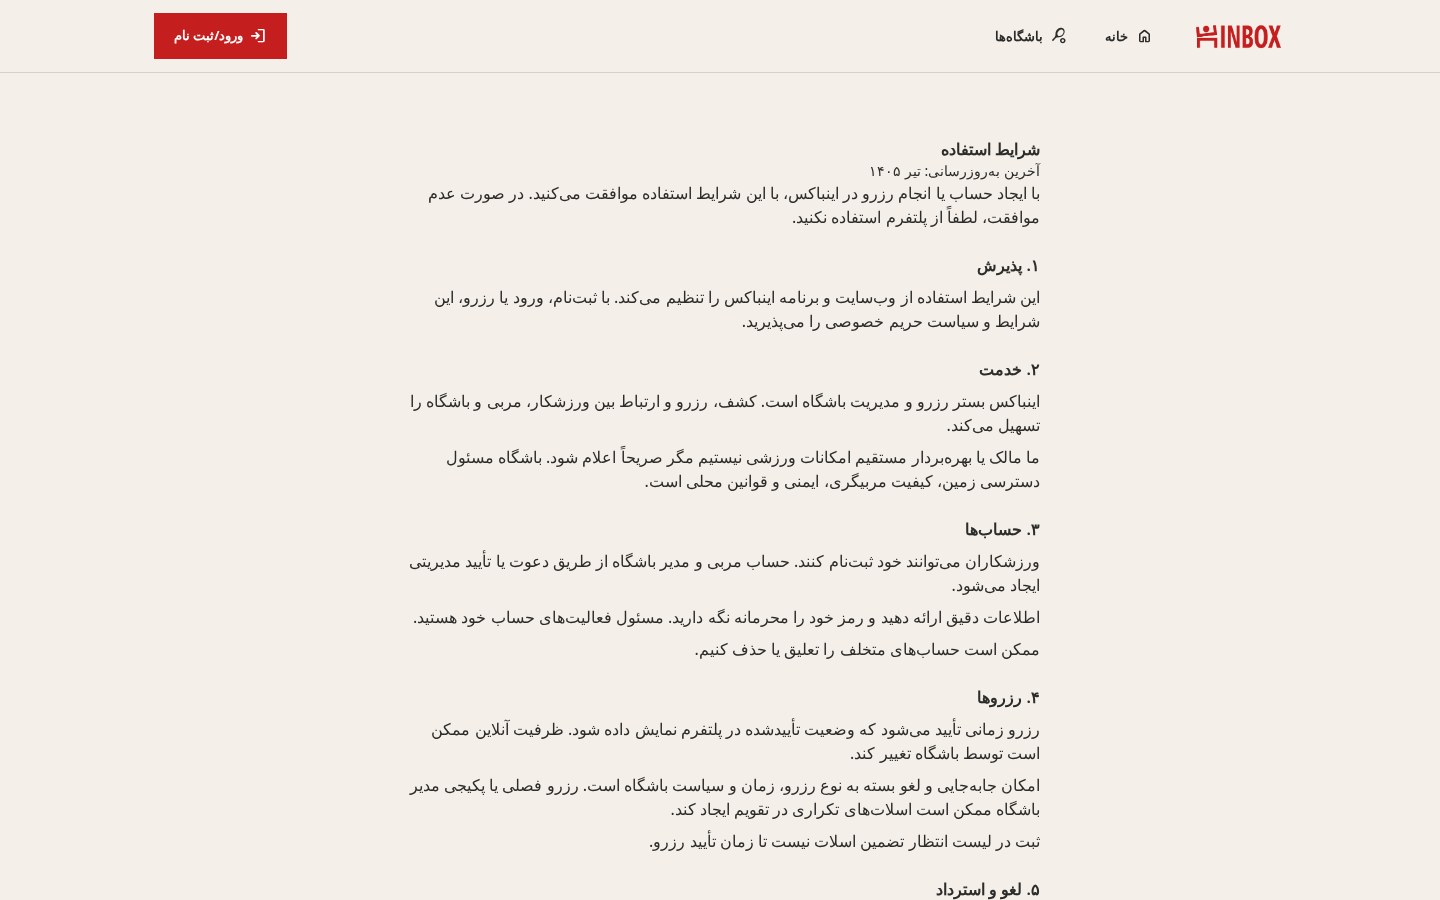
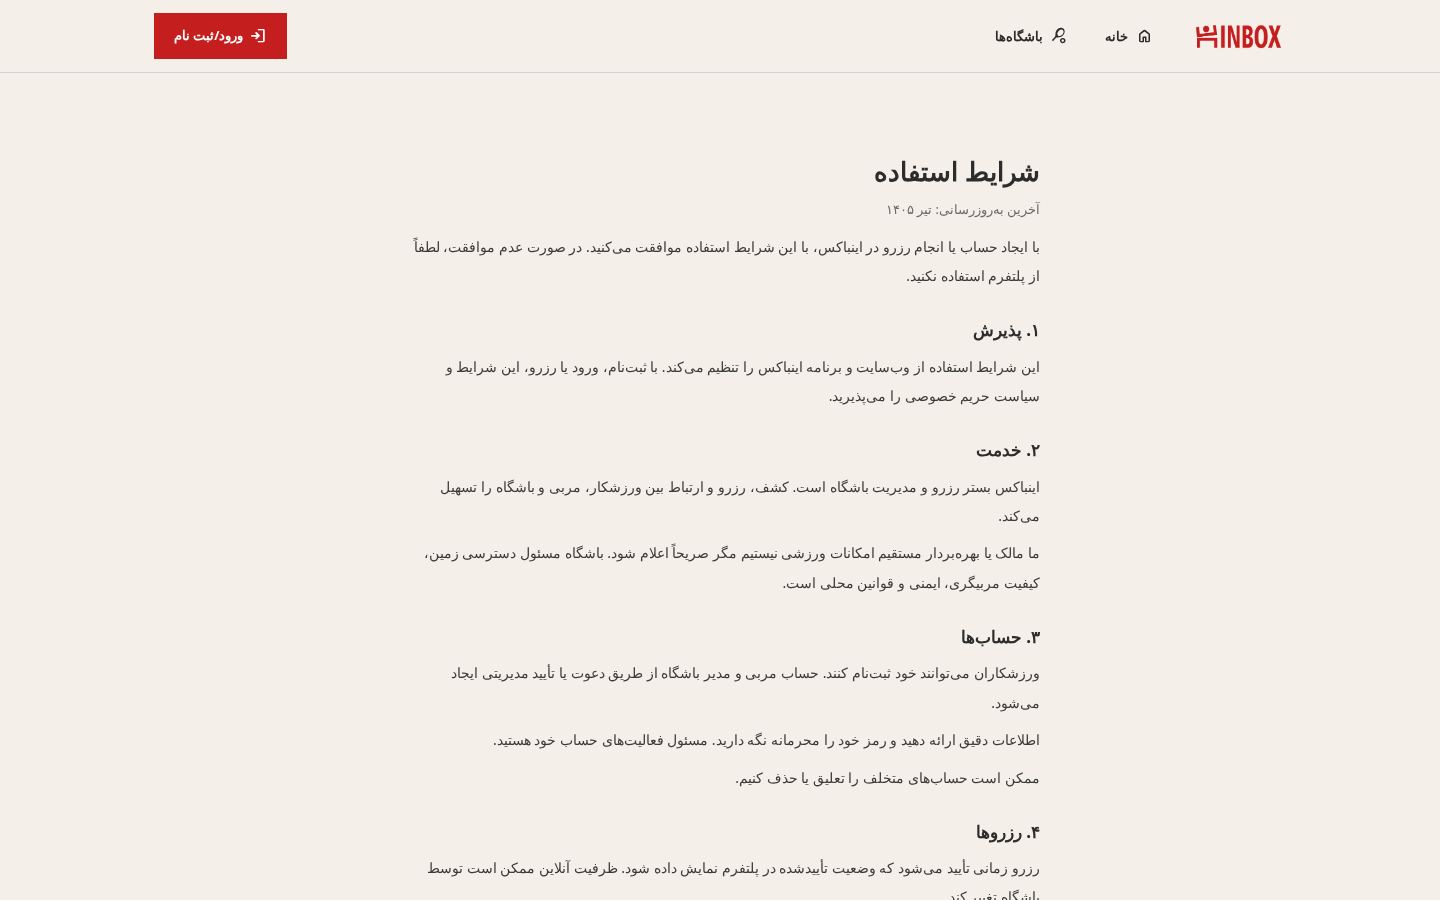
fidelity: legal pages, contact, 404/offline → SoT .legal/.card.kv/.authbox

diff --git a/app/pages/contact.vue b/app/pages/contact.vue
@@ -110,15 +110,15 @@ useHead({
 <template>
   <div class="tail-page-stack">
     <CanvaPublicChrome />
-  <div class="mx-auto max-w-2xl px-4 py-4 min-[431px]:py-6">
-    <h1 class="text-start text-2xl font-bold text-brand-navy">{{ t('contact.title') }}</h1>
-    <p class="mt-1 text-start text-sm text-brand-gray-500">{{ t('legal.lastUpdated') }}</p>
+  <div class="canva-legal canva-contact">
+    <h1>{{ t('contact.title') }}</h1>
+    <p class="canva-legal-meta">{{ t('legal.lastUpdated') }}</p>
     <p class="mt-3 text-start text-sm text-brand-gray-700">{{ t('contact.intro') }}</p>
 
-    <dl class="mt-6 space-y-3 text-sm">
+    <dl class="canva-contact-card canva-contact-kv">
       <div
         v-if="ownerName"
-        class="space-y-1 border border-brand-gray-200 bg-white p-4"
+        class="canva-contact-row"
         style="border-radius: 2px;"
       >
         <dt class="font-bold text-brand-navy">{{ t('contact.ownerLabel') }}</dt>
@@ -128,7 +128,7 @@ useHead({
       <!-- Address: env only — never invent Tehran; hide when unset (no setup copy to users) -->
       <div
         v-if="address"
-        class="space-y-1 border border-brand-gray-200 bg-white p-4"
+        class="canva-contact-row"
         style="border-radius: 2px;"
       >
         <dt class="font-bold text-brand-navy">{{ t('contact.addressLabel') }}</dt>
@@ -140,7 +140,7 @@ useHead({
 
       <div
         v-if="landline"
-        class="space-y-1 border border-brand-gray-200 bg-white p-4"
+        class="canva-contact-row"
         style="border-radius: 2px;"
       >
         <dt class="font-bold text-brand-navy">{{ t('contact.landlineLabel') }}</dt>
@@ -151,7 +151,7 @@ useHead({
 
       <div
         v-if="mobile"
-        class="space-y-1 border border-brand-gray-200 bg-white p-4"
+        class="canva-contact-row"
         style="border-radius: 2px;"
       >
         <dt class="font-bold text-brand-navy">{{ t('contact.mobileLabel') }}</dt>
@@ -161,7 +161,7 @@ useHead({
       </div>
 
       <div
-        class="space-y-1 border border-brand-gray-200 bg-white p-4"
+        class="canva-contact-row"
         style="border-radius: 2px;"
       >
         <dt class="font-bold text-brand-navy">{{ t('contact.emailLabel') }}</dt>
@@ -178,7 +178,7 @@ useHead({
       </div>
 
       <div
-        class="space-y-1 border border-brand-gray-200 bg-white p-4"
+        class="canva-contact-row"
         style="border-radius: 2px;"
       >
         <dt class="font-bold text-brand-navy">{{ t('contact.hoursLabel') }}</dt>
@@ -187,10 +187,7 @@ useHead({
     </dl>
 
     <!-- Marketing message — only message field uses SmoothCaret -->
-    <section
-      class="mt-6 space-y-3 border border-brand-gray-200 bg-white p-4"
-      style="border-radius: 2px;"
-    >
+    <section class="canva-contact-card space-y-3">
       <h2 class="text-start text-base font-bold text-brand-navy">{{ t('contact.messageTitle') }}</h2>
       <p class="text-start text-sm text-brand-gray-600">{{ t('contact.messageIntro') }}</p>
       <form class="space-y-3" @submit.prevent="submitMessage">
@@ -251,10 +248,7 @@ useHead({
     </section>
 
     <!-- Trust: only user-facing facts — never raw config/env values or setup notes. -->
-    <section
-      class="mt-6 space-y-3 border border-brand-gray-200 bg-white p-4"
-      style="border-radius: 2px;"
-    >
+    <section class="canva-contact-card space-y-3">
       <h2 class="text-start text-base font-bold text-brand-navy">{{ t('contact.readinessTitle') }}</h2>
 
       <div v-if="enamadReady" class="space-y-1 text-sm">

diff --git a/app/assets/css/main.css b/app/assets/css/main.css
@@ -4125,3 +4125,31 @@
       color: #fff;
     }
   }
+
+/* ─── SoT .legal (about/terms/privacy/pricing/cancellation/complaints) ─── */
+.canva-legal {
+  max-width: 672px;
+  margin: 0 auto;
+  padding: 40px 16px;
+  line-height: 2.1;
+  font-size: 14px;
+  color: #2c2c2a;
+  text-align: start;
+  letter-spacing: 0;
+}
+.canva-legal h1 { font-size: 26px; font-weight: 700; line-height: 1.4; margin: 0 0 6px; color: #2c2c2a; }
+.canva-legal h2 { font-size: 17px; font-weight: 700; line-height: 1.6; margin: 26px 0 6px; color: #2c2c2a; }
+.canva-legal p { margin-top: 8px; color: #3a3a37; }
+.canva-legal .canva-legal-meta { font-size: 12.5px; color: #6b6b67; }
+.canva-legal .canva-legal-disclaimer { margin-top: 32px; }
+/* SoT contact: one .card with .kv rows */
+.canva-contact-card { background: #fff; border: 1px solid rgba(44,44,42,.08); padding: 22px; margin-top: 20px; border-radius: 0; line-height: 1.8; }
+.canva-contact-card h2 { font-size: 14px; margin: 0 0 6px; }
+.canva-contact-kv .canva-contact-row { display: flex; flex-wrap: wrap; justify-content: space-between; gap: 4px 16px; padding: 9px 0; border-bottom: 1px solid rgba(44,44,42,.06); font-size: 12.5px; }
+.canva-contact-kv .canva-contact-row:last-child { border-bottom: 0; }
+.canva-contact-kv .canva-contact-row dt { font-weight: 400; color: #8f8f8b; }
+.canva-contact-kv .canva-contact-row dd { margin: 0; font-weight: 700; color: #2c2c2a; text-align: end; }
+/* SoT .authc/.authbox — 404, offline */
+.canva-authbox { width: 100%; max-width: 440px; background: #fff; border: 1px solid rgba(44,44,42,.08); padding: 34px; border-radius: 0; }
+.canva-authbox-title { font-size: 22px; font-weight: 700; color: #2c2c2a; margin-bottom: 8px; line-height: 1.5; }
+.canva-authbox-sub { font-size: 13px; color: #6b6b67; margin-bottom: 20px; line-height: 1.9; }

diff --git a/app/pages/offline.vue b/app/pages/offline.vue
@@ -1,6 +1,6 @@
 <template>
   <div class="flex min-h-dvh items-center justify-center bg-brand-cream px-4 py-10">
-    <div class="canva-result-sheet w-full max-w-md p-8 text-center">
+    <div class="canva-authbox text-center">
       <div class="relative z-[1]">
         <img
           src="/brand/inbox-logo-lockup.svg"
@@ -8,8 +8,8 @@
           dir="ltr"
           class="canva-error-brand inbox-brand-lockup mb-5"
         >
-        <h1 class="text-xl font-bold text-brand-navy">{{ $t('pwa.offlineTitle') }}</h1>
-        <p class="mt-2 text-sm text-brand-gray-600">{{ $t('pwa.offlineBody') }}</p>
+        <h1 class="canva-authbox-title">{{ $t('pwa.offlineTitle') }}</h1>
+        <p class="canva-authbox-sub">{{ $t('pwa.offlineBody') }}</p>
         <p class="mt-3 text-xs font-bold text-brand-gray-400">inbox · inboxs.ir</p>
         <button type="button" class="btn-primary mt-6 w-full" @click="reloadNuxtApp()">{{ $t('common.retry') }}</button>
         <NuxtLink :to="$localePath('/')" class="btn-ghost mt-3 block w-full text-center">{{ $t('nav.home') }}</NuxtLink>

diff --git a/app/components/LegalDocument.vue b/app/components/LegalDocument.vue
@@ -57,15 +57,15 @@ const sections = computed(() => {
 <template>
   <div class="tail-page-stack">
     <CanvaPublicChrome v-if="showChrome" />
-    <div class="prose prose-sm mx-auto max-w-2xl px-4 py-4 min-[431px]:py-6">
+    <div class="canva-legal">
     <h1>{{ t(titleKey) }}</h1>
-    <p class="text-sm text-brand-muted">{{ t('legal.lastUpdated') }}</p>
+    <p class="canva-legal-meta">{{ t('legal.lastUpdated') }}</p>
     <p>{{ t(introKey) }}</p>
-    <section v-for="(section, idx) in sections" :key="idx" class="mt-6">
+    <section v-for="(section, idx) in sections" :key="idx">
       <h2>{{ normalizeLegalText(rt(section.title)) }}</h2>
-      <p v-for="(para, pidx) in section.paragraphs" :key="pidx" class="mt-2">{{ mapParagraph(para) }}</p>
+      <p v-for="(para, pidx) in section.paragraphs" :key="pidx">{{ mapParagraph(para) }}</p>
     </section>
-    <p class="mt-8 text-sm text-brand-muted">{{ t('legal.disclaimer') }}</p>
+    <p class="canva-legal-meta canva-legal-disclaimer">{{ t('legal.disclaimer') }}</p>
     </div>
   </div>
 </template>

diff --git a/app/error.vue b/app/error.vue
@@ -30,14 +30,14 @@ function goHome() {
 
 <template>
   <div class="flex min-h-dvh items-center justify-center bg-brand-cream px-4 py-16">
-    <div class="canva-result-sheet w-full max-w-sm p-6 text-center">
+    <div class="canva-authbox text-center">
       <div class="relative z-[1] space-y-3">
         <div class="canva-error-brand flex justify-center">
           <InboxBrandLockup home-link height-class="h-8" />
         </div>
         <p class="text-5xl font-bold text-brand-primary">{{ error.statusCode || 500 }}</p>
-        <h1 class="text-xl font-bold text-brand-navy">{{ title }}</h1>
-        <p class="text-sm text-brand-gray-600">{{ message }}</p>
+        <h1 class="canva-authbox-title">{{ title }}</h1>
+        <p class="canva-authbox-sub">{{ message }}</p>
         <p class="text-xs font-bold text-brand-gray-400">inbox · inboxs.ir</p>
         <button type="button" class="canva-gate-btn-primary mt-4 w-full" @click="goHome">{{ t('errors.goHome') }}</button>
       </div>

diff --git a/design-reference/GAPS.md b/design-reference/GAPS.md
@@ -29,3 +29,8 @@ Do not reopen rows already `fixed` or `kept-product` unless a fresh screenshot p
 | club · layout | desktop | fixed | SoT .rcl grid 1fr/440px gap 34px, gallery 300px tall (CSS only, real photo unchanged), booking panel stacked (calendar → court rows .rcts → slots), court rows full width | design-reference/comparisons/club/ |
 | club · court mode tags | desktop | missing-in-product | SoT shows gender/mode tag per court; product has no field — documented only | — |
 | club · dev 500 | dev | pre-existing bug | `node:crypto` imported client-side via shared/receiptToken.ts (not fixed; not visual) | — |
+| legal · about/terms/privacy/pricing/cancellation/complaints | 375 / desktop | fixed | LegalDocument → SoT .legal (672px, 40px pad, lh 2.1, h1 26 / h2 17, meta 12.5 #6b6b67); copy unchanged | design-reference/comparisons/{about,terms,privacy,pricing,cancellation,complaints}/ |
+| legal · about owner card | — | kept-product | Owner name card from live settings | — |
+| contact | 375 / desktop | fixed | Separate bordered boxes → single SoT .card with .kv rows; message form in .card | design-reference/comparisons/contact/ |
+| 404 / offline | 375 / desktop | fixed | Patterned result sheet → SoT .authbox (white, 440px, 34px pad, h1 22, sub 13) | design-reference/comparisons/{notfound,offline}/ |
+| 404 · status numeral | — | kept-product | Live shows status code; SoT omits — content kept | — |
